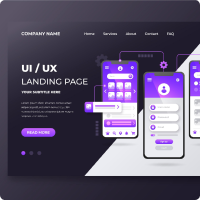
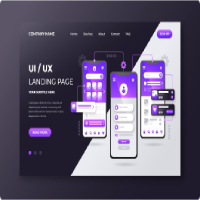
alignment and picture size modified

diff --git a/index.html b/index.html
@@ -38,7 +38,7 @@
                 <a class="nav-link active" aria-current="page" href="#">Home</a>
               </li>
               <li class="nav-item">
-                <a class="nav-link" href="#">Courses</a>
+                <a class="nav-link" href="#courses">Courses</a>
               </li>
               <li class="nav-item">
                 <a class="nav-link" href="#">Deals</a>
@@ -87,7 +87,7 @@
             </div>
             <div class="carousel-item">
               <img
-                src="images/cover/cover-2.jpg"
+                src="images/cover/cover-2.png"
                 class="d-block w-100 banner-img"
                 alt="..."
               />
@@ -144,7 +144,7 @@
 
     <main class="container">
       <!-- All Courses -->
-      <section class="mt-5">
+      <section id="courses" class="mt-5 py-lg-3">
         <h2 class="text-center">Discover Our Popular Courses</h2>
         <p class="text-secondary text-center">
           It is a long established fact that a reader will be distracted by the
@@ -250,12 +250,12 @@
       </section>
 
       <!-- Explore E-learning -->
-      <section class="mt-5">
-        <div class="row g-4">
+      <section class="mt-5 elarning-section">
+        <div class="row">
           <div class="col-12 col-lg-6">
             <img class="w-100" src="images/reading.jpg" alt="" />
           </div>
-          <div class="col-12 col-lg-6 align-self-center">
+          <div class="col-12 col-lg-6 align-self-center py-3 ps-4 ps-lg-2 pe-4">
             <h3>Explore The elearning Institute</h3>
             <p class="text-secondary">
               There are many variations of passages of Lorem Ipsum available,
@@ -288,13 +288,13 @@
       </section>
 
       <!-- Ready To Join Section -->
-      <section class="mt-5 bg-secondary rounded-2">
+      <section class="mt-5 pt-lg-3">
         <div
-          class="d-flex flex-column flex-lg-row align-items-center justify-content-center justify-content-lg-between p-5"
+          class="d-flex flex-column flex-lg-row align-items-center justify-content-center justify-content-lg-between p-5 joinNow-section rounded-2"
         >
           <div>
-            <h3 class="text-center text-lg-start">Ready to join?</h3>
-            <p class="text-center text-lg-start">
+            <h3 class="text-center text-white text-lg-start">Ready to join?</h3>
+            <p class="text-center text-white text-lg-start">
               It is a long established fact that a reader will be distracted by
               the readable content of a page when looking at its layout.
             </p>
@@ -372,7 +372,7 @@
       </section>
 
       <!-- Successful Students -->
-      <section class="mt-5">
+      <section class="mt-5 pt-lg-3">
         <h2>Meet Our Successfull Students</h2>
         <p class="text-secondary">
           It is a long established fact that a reader will be distracted by the
@@ -412,7 +412,7 @@
       </section>
 
       <!-- Feedback -->
-      <section class="mt-5">
+      <section class="mt-5 pt-lg-3">
         <h2 class="text-center">Some Students Feedback</h2>
         <p class="text-center text-secondary">
           It is a long established fact that a reader will be distracted by the
@@ -458,7 +458,7 @@
                         class="rounded-5"
                         width="40px"
                         height="40px"
-                        src="images/student/student-5.png"
+                        src="images/student/student-3.png"
                         alt=""
                       />
 
@@ -547,7 +547,7 @@
                         class="rounded-5"
                         width="40px"
                         height="40px"
-                        src="images/student/student-5.png"
+                        src="images/student/student-1.png"
                         alt=""
                       />
 
@@ -590,7 +590,7 @@
                         class="rounded-5"
                         width="40px"
                         height="40px"
-                        src="images/student/student-6.png"
+                        src="images/student/student-4.png"
                         alt=""
                       />
                       <div>
@@ -635,7 +635,7 @@
       </section>
 
       <!-- FAQ Section -->
-      <section class="mt-5">
+      <section class="mt-5 pt-lg-3">
         <h2 class="text-center">Frequently Asked Questions</h2>
         <p class="text-center text-secondary">
           It is a long established fact that a reader will be distracted by the
@@ -777,7 +777,7 @@
       </section>
 
       <!-- Patner Companies -->
-      <section class="mt-5 d-none d-lg-block">
+      <section class="mt-5 py-lg-3 d-none d-lg-block">
         <h2 class="text-center">Trusted by over 800+ companies</h2>
         <div
           class="d-flex justify-content-center flex-wrap align-items-center gap-4 mt-4"

diff --git a/styles/style.css b/styles/style.css
@@ -1,6 +1,13 @@
 .banner-img {
-  max-height: 600px;
   filter: brightness(50%);
+}
+
+.elarning-section {
+  background-color: #f4fafd;
+}
+
+.joinNow-section {
+  background-color: #289bde;
 }
 
 .feedback-icon {
